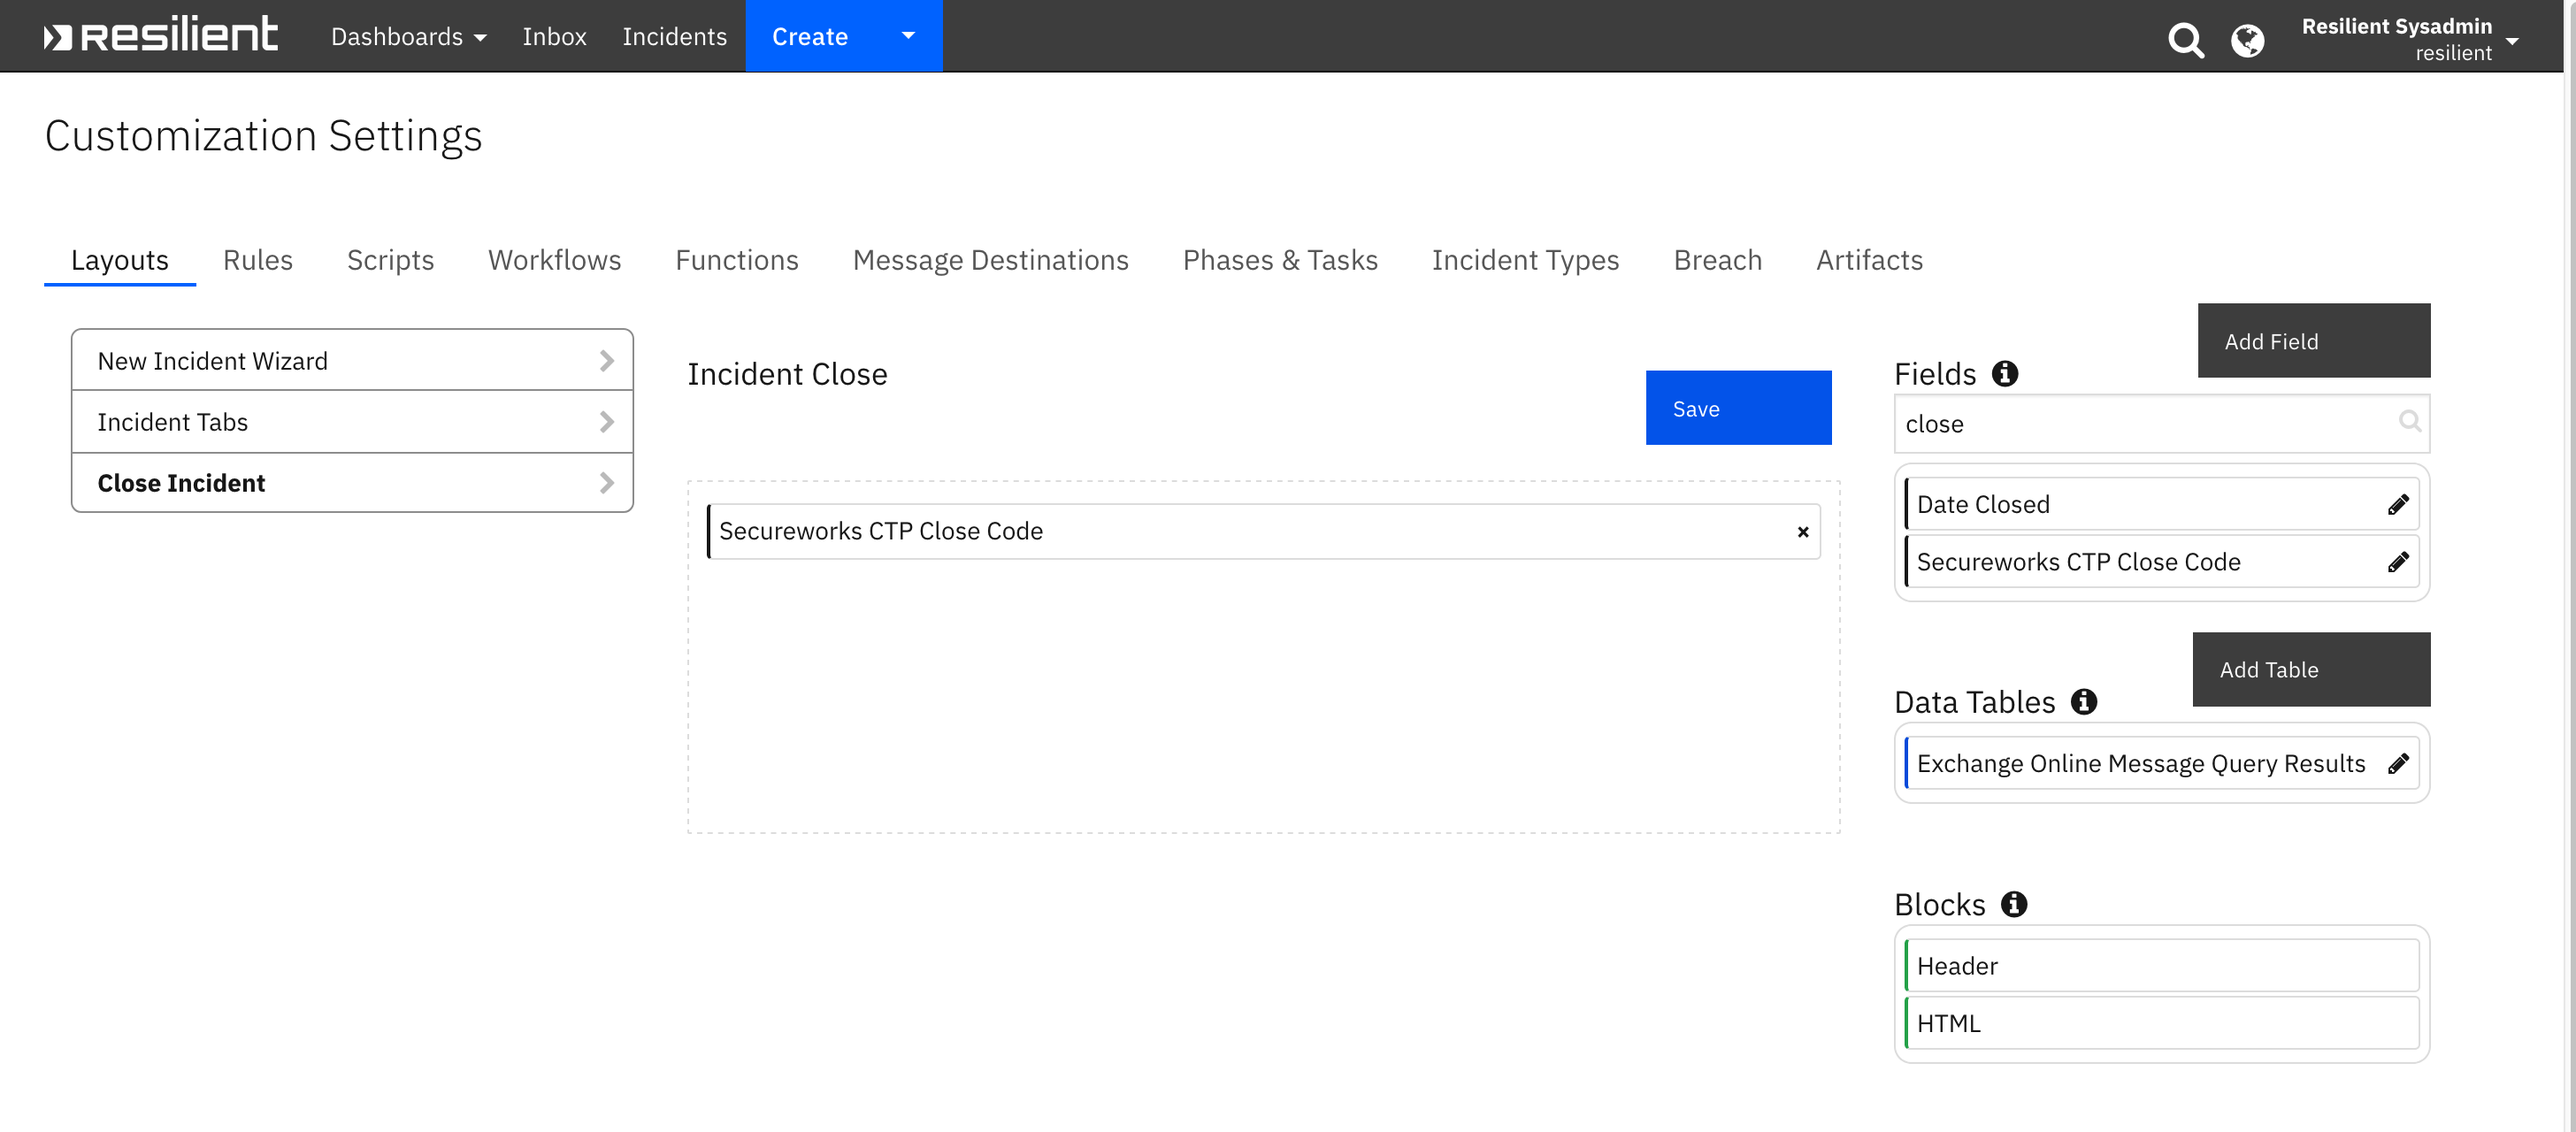
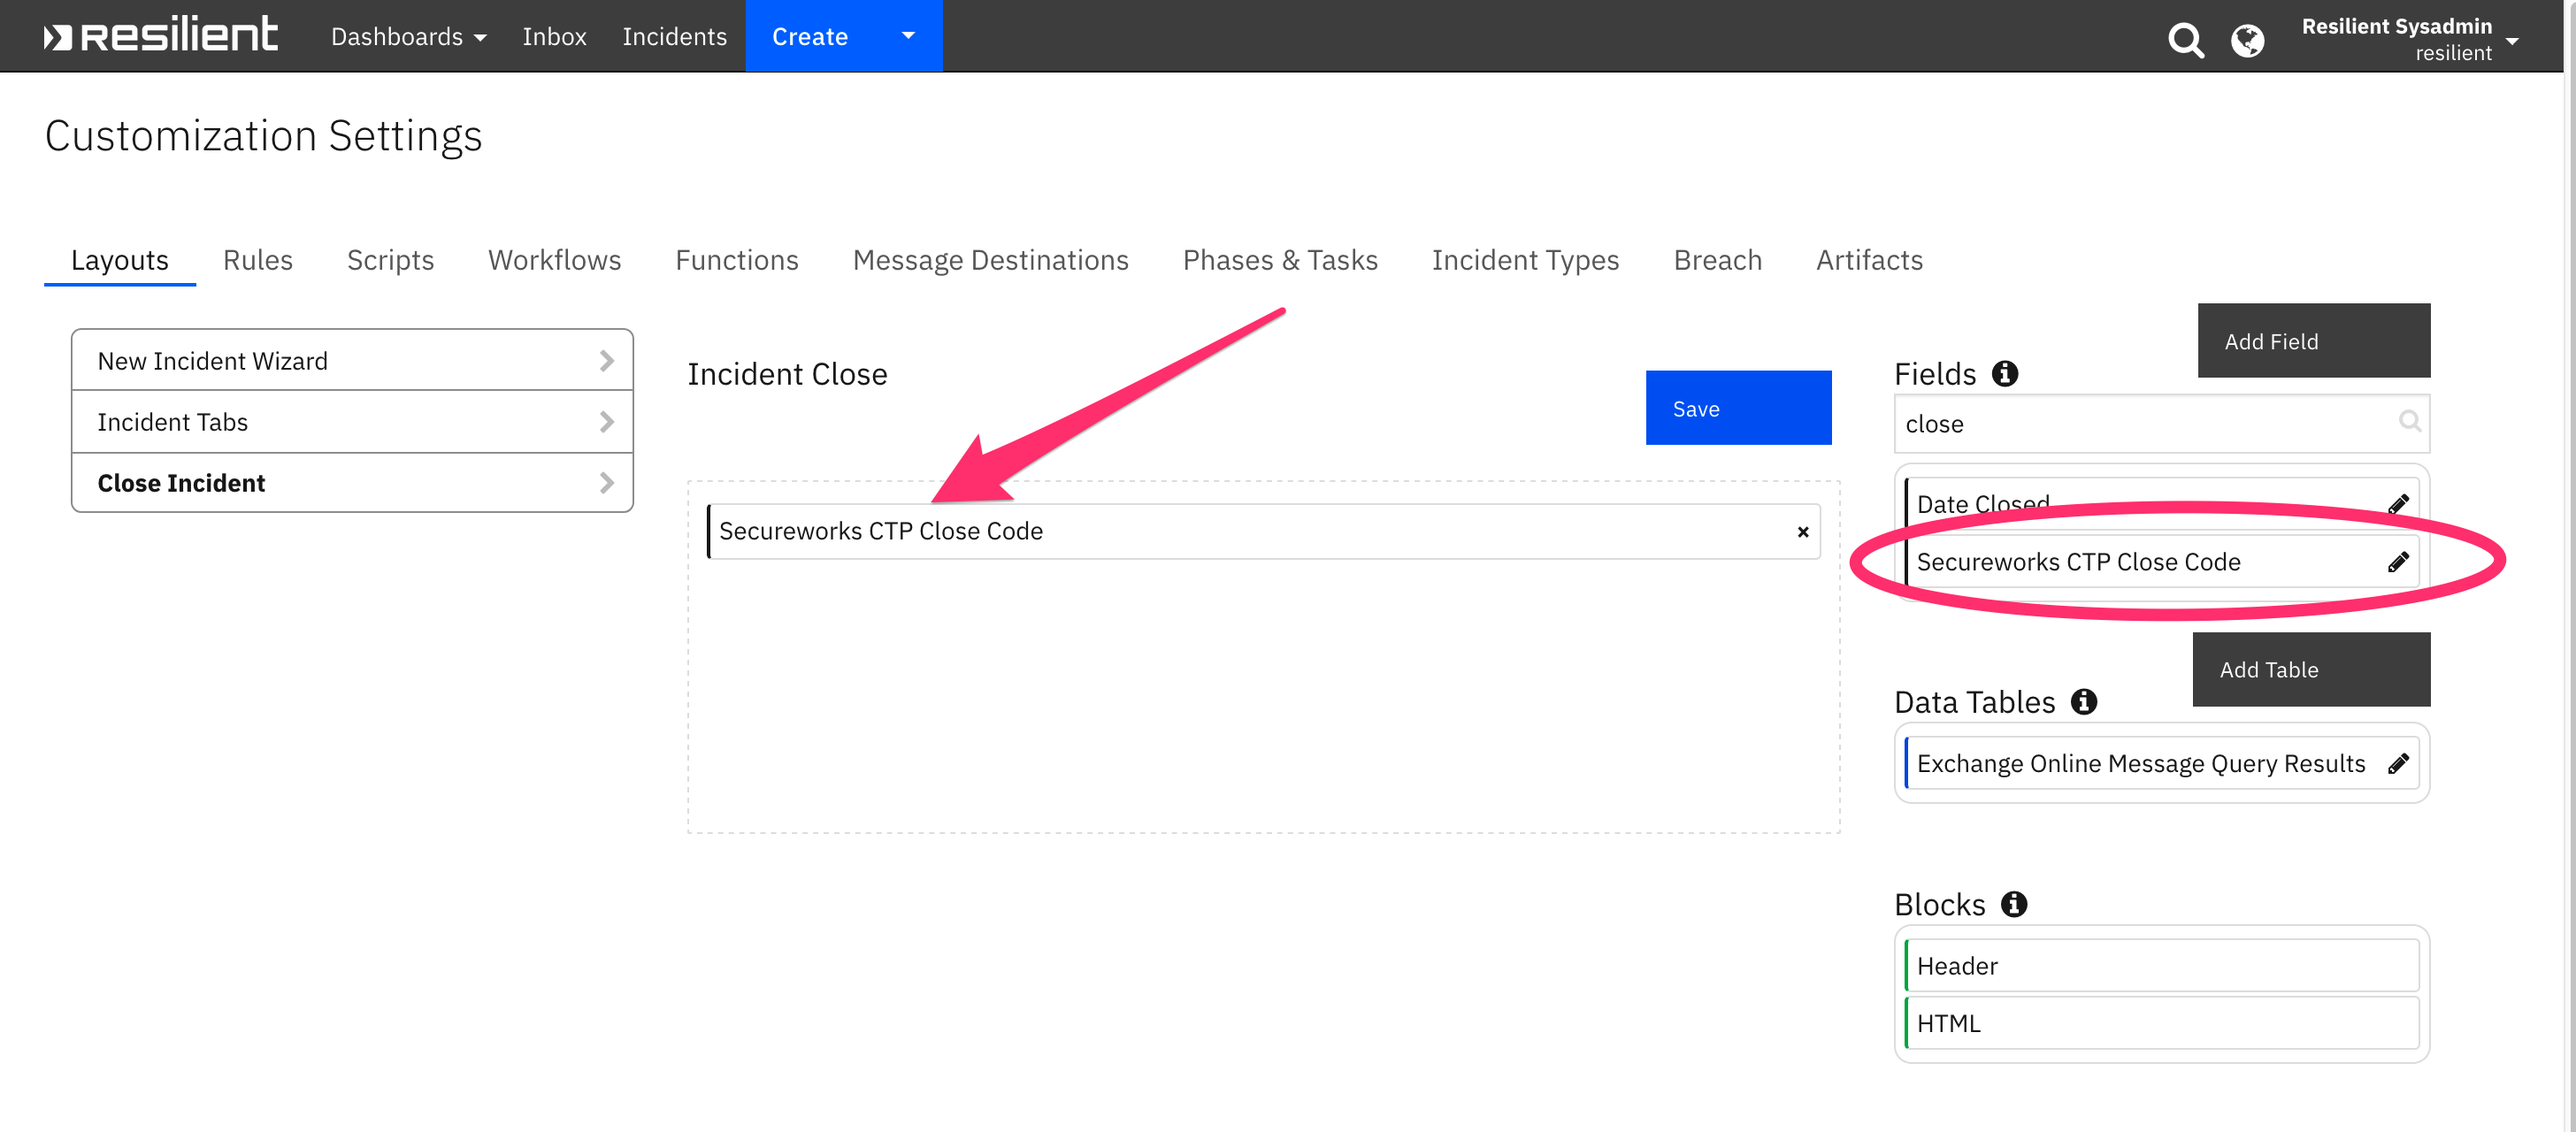
INT-2337 documentation updates

diff --git a/fn_secureworks_ctp/README.md b/fn_secureworks_ctp/README.md
@@ -40,10 +40,15 @@
   The text below is parsed from the "description" and "long_description" attributes in the setup.py file
 -->
 <p>
-The Secureworks CTP Functions for Resilient includes:
+The Secureworks Counter Threat Platform (CTP) uses the global visibility gained from gathering and analyzing data from clients all over the world to more accurately identify, contain and eradicate cybersecurity threats. By combining up-to-the-minute threat intelligence with the CTP's machine learning and analytics capabilities, organizations can make faster, more informed decisions about how to predict, prevent, detect, and respond to threat activity.
+<p>
+CTP is used with the Secureworks SOC team when they find an security issue that needs to be communicated to the customer. The issues can be informational, research-based or require proscriptive actions by the customer. Secureworks CTP provides a “ticket-like” interface that allows you acknowledge, add files and notes, and provide ability to close tickets.   
+<p>
+ The Secureworks CTP integration implements the following functionality in Resilient:
 
-* A poller component that continuously checks the Secureworks CTP endpoint for new tickets and brings ticket into Resilient as incidents. Ticket worklogs and attachments are also created in the Resilient incident as notes and attachments. 
-*  Function to close a ticket in Secureworks when the corresponding Resilient incident is closed.
+* Poll Secureworks CTP for tickets and create a corresponding incident in the Resilient platform for each ticket.
+* Get Secureworks CTP ticket workLogs and attachments and add them as notes and attachments in the corresponding Resilient incident.
+* Close a Secureworks CTP ticket when the corresponding Resilient incident is closed in Resilient.
 
 
  ![screenshot: main](./doc/screenshots/scwx_main.png)
@@ -122,6 +127,42 @@ The Secureworks CTP Functions for Resilient includes:
   ```
 * Open the config file, scroll to the [fn_secureworks_ctp] section and remove the section or prefix `#` to comment out the section.
 * **Save** and **Close** the app.config file.
+
+---
+### Custom Layouts
+<!--
+  Use this section to provide guidance on where the user should add any custom fields and data tables.
+  You may wish to recommend a new incident tab.
+  You should save a screenshot "custom_layouts.png" in the doc/screenshots directory and reference it here
+-->
+Customize Secureworks CTP and Close Incident Layouts to provide Secureworks specific information in the Resilient UI.
+ 
+#### Secureworks CTP Layout Tab
+Create a Secureworks CTP custom incident tab so that you can view Secureworks CTP ticket information in one place. 
+
+* Go to the Customizations Settings -> Layouts tab.
+* Click the Incident Tabs menu item on the left. 
+* Click the Add Tab button.  
+* Enter Secureworks CTP in Add a Tab popup and click Add.
+
+   ![screenshot: custom_layouts](./doc/screenshots/scwx_layout_tab_create_scwx.png)
+---
+
+* Next, search for the Secureworks CTP (scwx) custom incident fields in the Fields search bar.
+* Drag Secureworks custom incidents fields on to the layout in the center of the screeen.
+* Click Save.
+
+   ![screenshot: custom_layouts_fields](./doc/screenshots/scwx_layout_tab_fields.png)
+---
+#### Close Incident Layout Tab
+Modify the Close Incident tab so the the Secureworks close code can be selected from the Close Incident popup from Resilient. 
+* Go to the Customizations Settings -> Layouts tab.
+* Click the Close Incident menu item on the left as shown in the screenshot below.
+  ![screenshot: custom_layouts](./doc/screenshots/scwx_layout_tab_create_close.png)
+---
+* Next, search for the Secureworks CTP Close Code custom incident fields in the Fields search bar.
+* Drag the Secureworks CTP Close Code onto the Close Incident layout tab.
+   ![screenshot: custom_layout_close_add](./doc/screenshots/scwx_close_layout_tab_add.png)
 
 ---
 

diff --git a/fn_secureworks_ctp/doc/README.md b/fn_secureworks_ctp/doc/README.md
@@ -35,7 +35,7 @@ The Secureworks CTP integration implements the following functionality in Resili
 
 * Poll Secureworks CTP for tickets and create a corresponding incident in the Resilient platform for each ticket.
 * Get Secureworks CTP ticket workLogs and attachments and add them as notes and attachments in the corresponding Resilient incident.
-* Close the Secureworks CTP ticket when the corresponding Resilient incident is closed in Resilient.
+* Close a Secureworks CTP ticket when the corresponding Resilient incident is closed in Resilient.
 ---
 ## Integration Flow for Ticket Management
 
